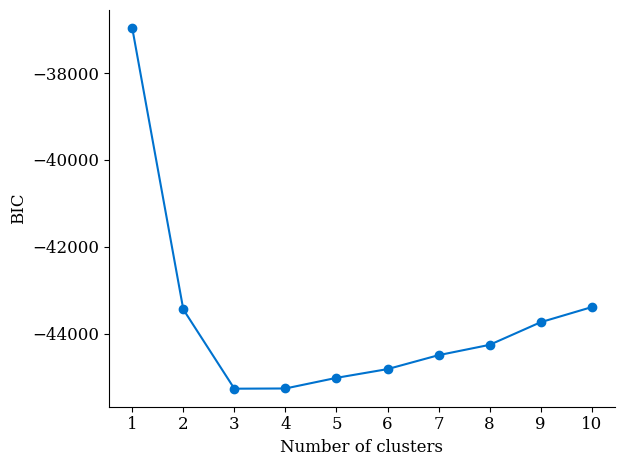
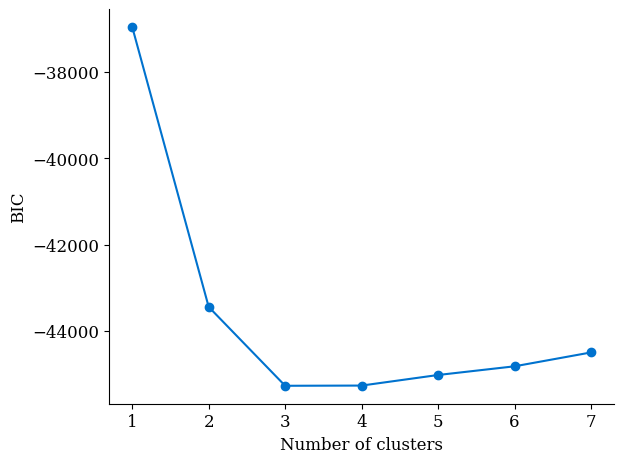
minor updates

diff --git a/model_selection_synthetic.py b/model_selection_synthetic.py
@@ -7,6 +7,7 @@ Compares AIC/BIC/objective vs. number of clusters
 import pathlib
 
 import matplotlib.pyplot as plt
+import numpy as np
 import pandas as pd
 
 from unsupervised_multimodal_trajectory_modeling.linear_gaussian import (
@@ -26,13 +27,13 @@ plt.rcParams["font.size"] = 12
 
 pwd = pathlib.Path(__file__).absolute().parent
 alpha = 1.0
-n_cluster_list = range(1, 11)
+n_cluster_list = range(1, 8)
 save_figs = True
 show_figs = False
 
 
 def main():
-    z_orig, x, c, _, _ = data.get_data(1000)
+    z_orig, x, c, _, _ = data.get_data(1000, rng=np.random.default_rng(42))
     z, std_param = util.standardize(z_orig, return_params=True)
 
     """

diff --git a/data_synthetic.py b/data_synthetic.py
@@ -176,7 +176,7 @@ def get_data(
 
 
 def set_model_correspondence(
-    mdl: mixmodel.MMLinGaussSS_Marginalisable, true_labels: np.array
+    mdl, true_labels: np.array
 ) -> None:
     """takes a trained model and sets the cluster correspondence to minimise
      the discrepancy between A,B,C and 1,2,3 -- note that clusters are only
